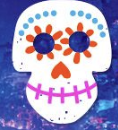
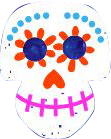
11

diff --git a/index.html b/index.html
@@ -70,7 +70,7 @@
           </a>
           <a class="gallery-card" href="pixar_timeline/index.html" data-title="Temporal_Structure" data-label="Project 03"><img src="image/Pixar_timeline.png" alt="Project 03"></a>
           <a class="gallery-card" href="walkwait-site/index.html" data-title="Research Foundations + Project Outline" data-label="Project 04"><img src="assets/images/project04.svg" alt="Project 04"></a>
-          <a class="gallery-card" href="coco_character_network/index.html" data-title="Relational Structures" data-label="Project 05"><img src="image/relational_structure.png" alt="Project 05"></a>
+          <a class="gallery-card" href="coco_character_network/index.html" data-title="Relational Structures" data-label="Project 05"><img src="image/relational.png" alt="Project 05"></a>
           <a class="gallery-card" href="#" data-title="Coming Soon" data-label="Project 06"><img src="assets/images/project06.svg" alt="Project 06"></a>
           <a class="gallery-card" href="#" data-title="Coming Soon" data-label="Project 07"><img src="assets/images/project07.svg" alt="Project 07"></a>
           <a class="gallery-card" href="#" data-title="Coming Soon" data-label="Project 08"><img src="assets/images/project08.svg" alt="Project 08"></a>

diff --git a/coco_character_network/style.css b/coco_character_network/style.css
@@ -355,17 +355,8 @@ h1 span {
   transform-box: fill-box;
   transform-origin: center;
 
-  /* Cuts away most of the rectangular screenshot background
-     and gives the node a skull-like silhouette. */
-  clip-path: polygon(
-    19% 1%, 81% 1%,
-    91% 8%, 97% 22%, 98% 42%,
-    92% 55%, 79% 62%, 70% 64%,
-    70% 84%, 62% 96%, 50% 100%,
-    38% 96%, 30% 84%, 30% 64%,
-    21% 62%, 8% 55%, 2% 42%,
-    3% 22%, 9% 8%
-  );
+  /* The replacement PNG already has a transparent skull outline,
+     so no CSS clipping is needed. */
 
   filter:
     saturate(1.18)
